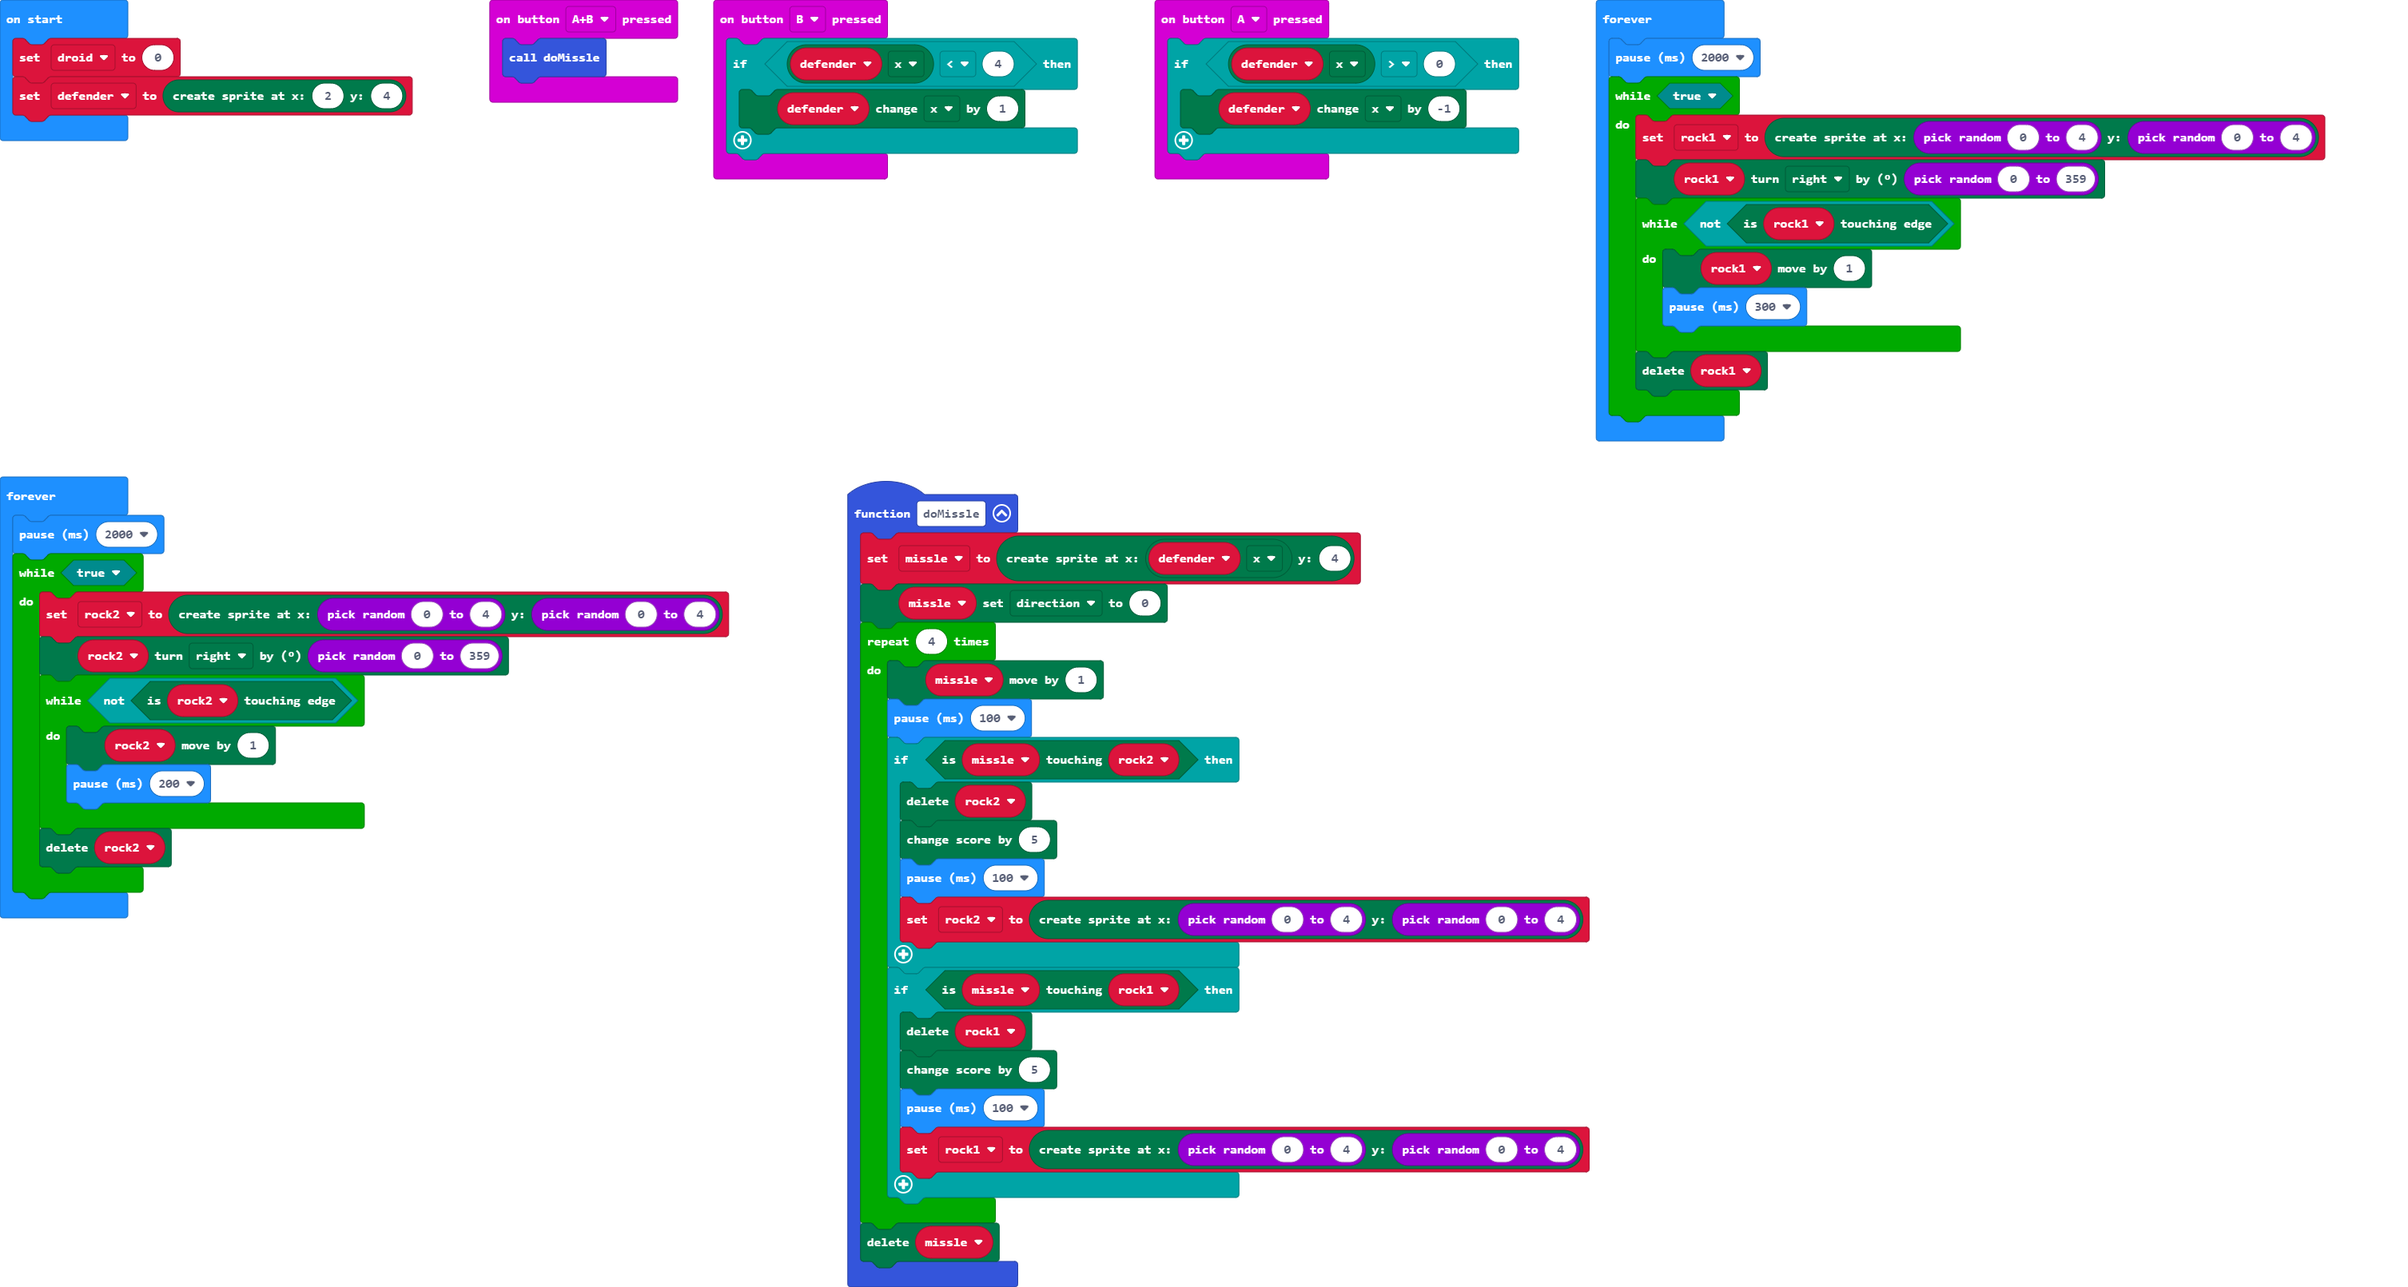
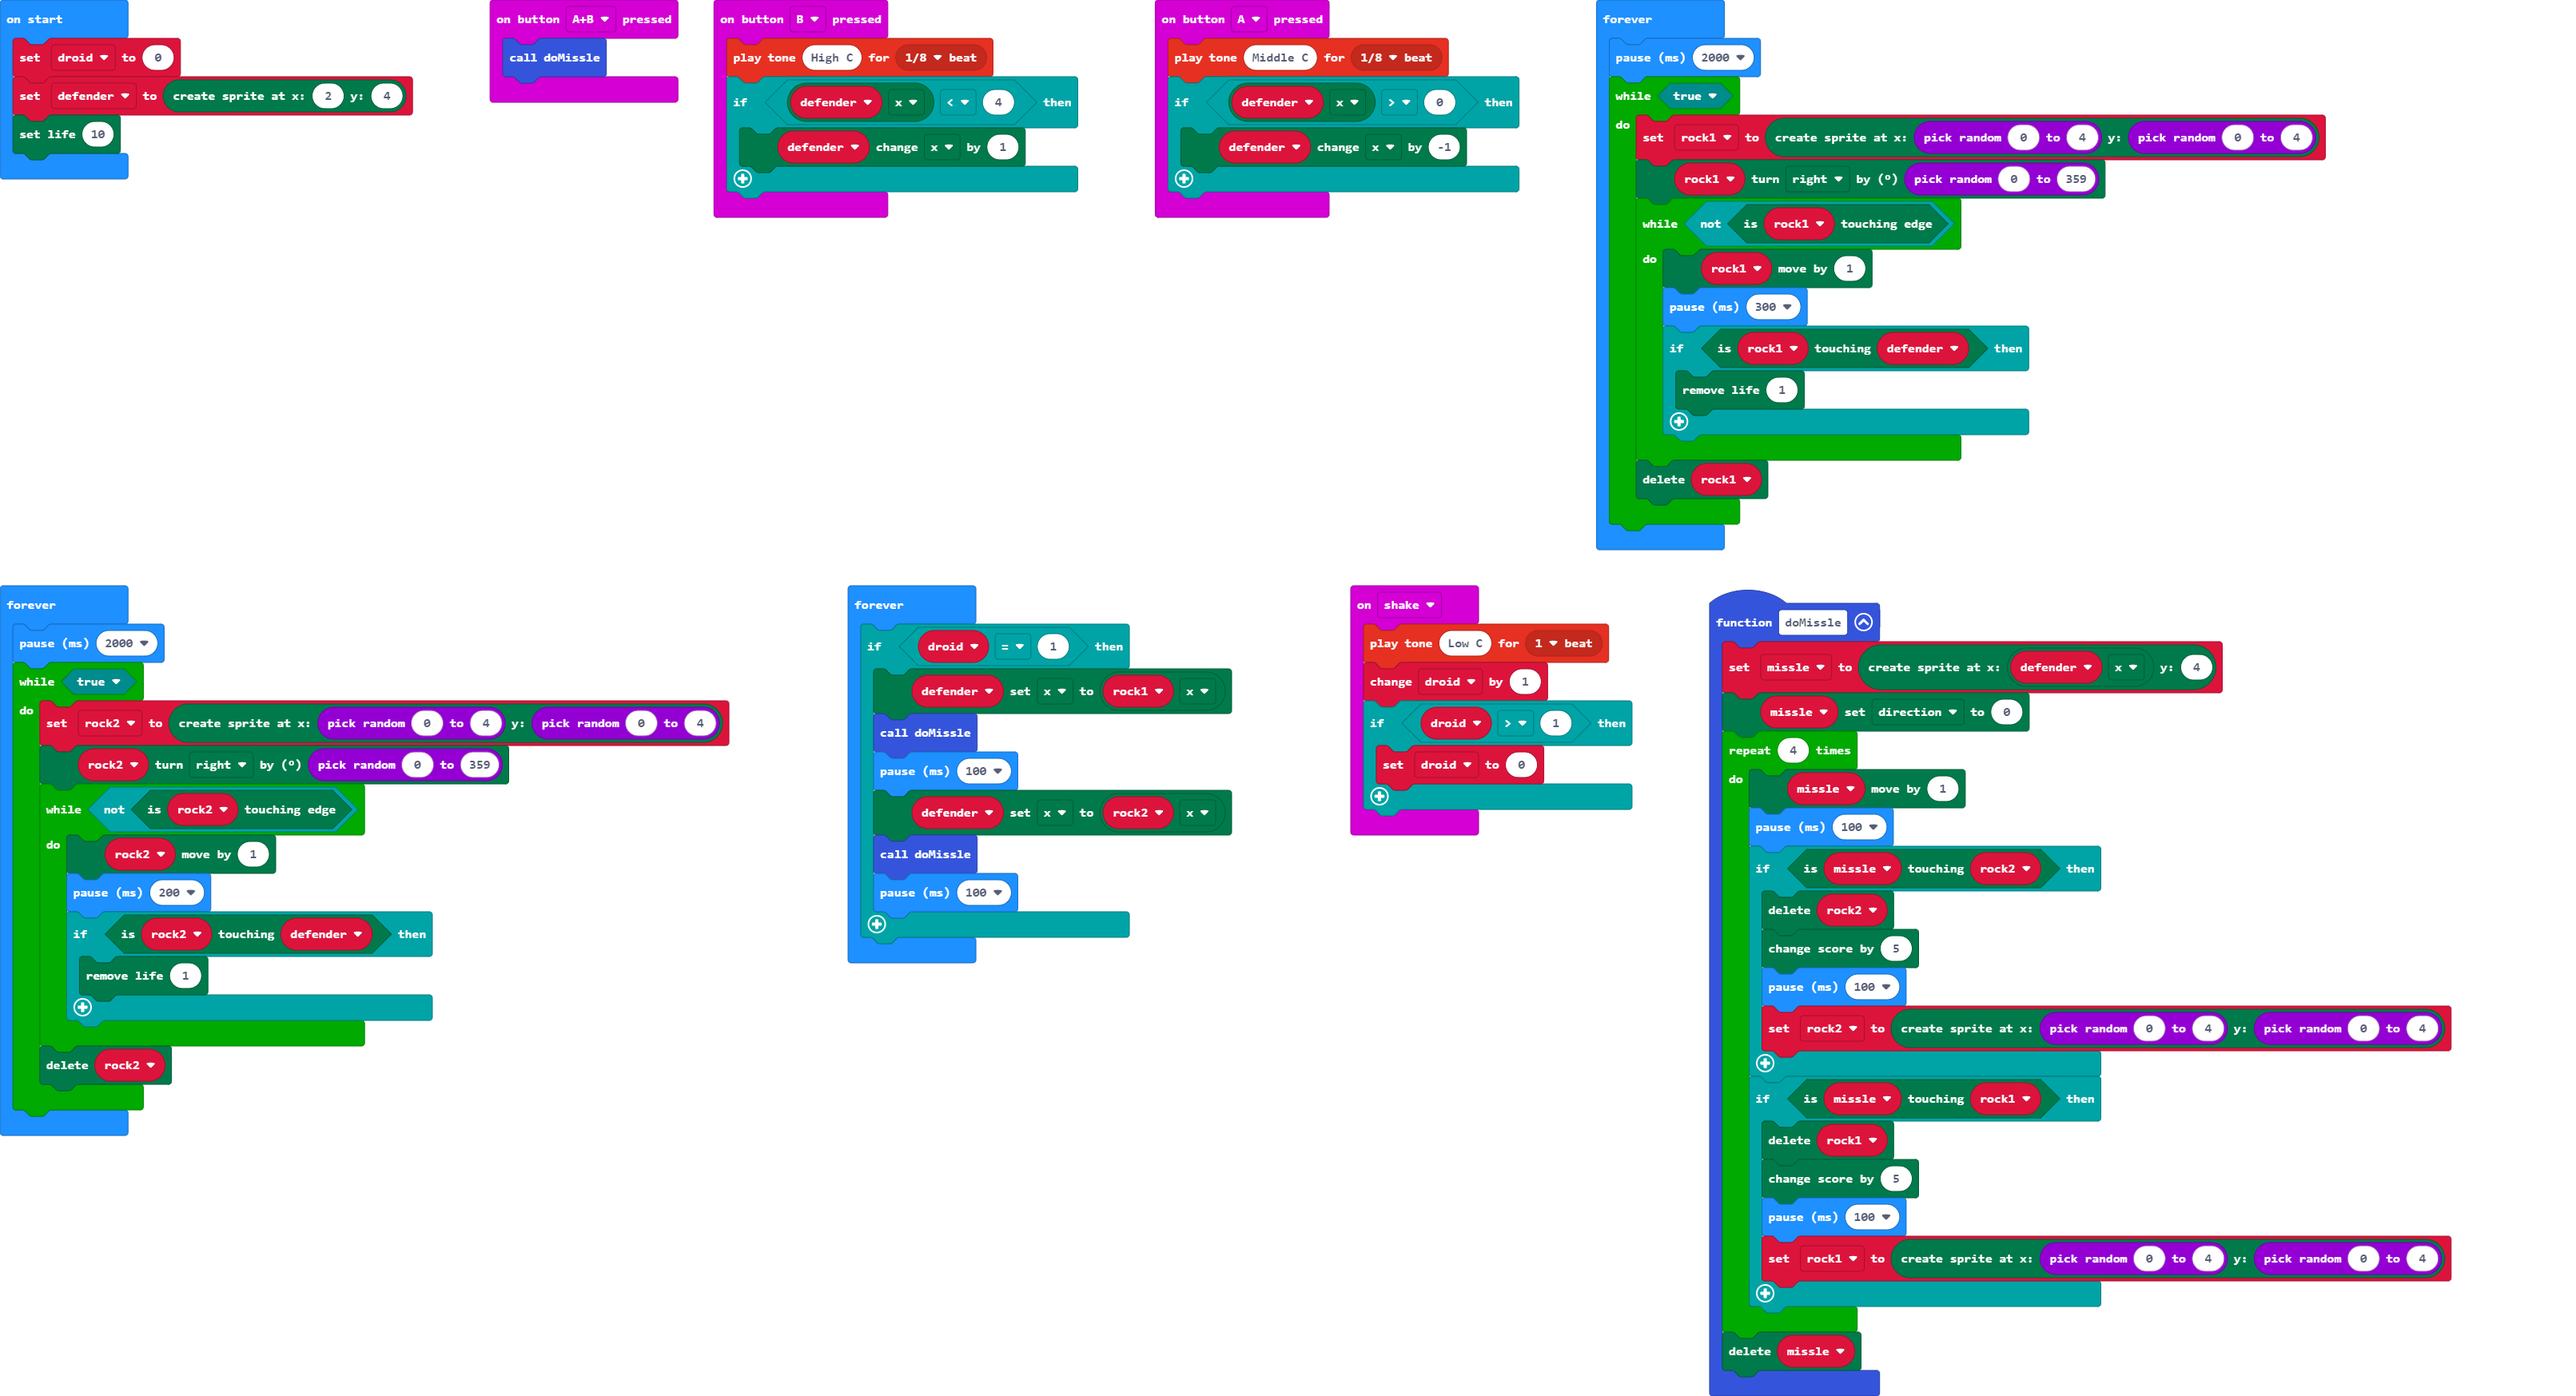
Update main.blocks, main.ts

diff --git a/main.ts b/main.ts
@@ -20,6 +20,7 @@ function doMissle () {
     missle.delete()
 }
 input.onButtonPressed(Button.A, function () {
+    music.playTone(262, music.beat(BeatFraction.Eighth))
     if (defender.get(LedSpriteProperty.X) > 0) {
         defender.change(LedSpriteProperty.X, -1)
     }
@@ -28,8 +29,16 @@ input.onButtonPressed(Button.AB, function () {
     doMissle()
 })
 input.onButtonPressed(Button.B, function () {
+    music.playTone(523, music.beat(BeatFraction.Eighth))
     if (defender.get(LedSpriteProperty.X) < 4) {
         defender.change(LedSpriteProperty.X, 1)
+    }
+})
+input.onGesture(Gesture.Shake, function () {
+    music.playTone(131, music.beat(BeatFraction.Whole))
+    droid += 1
+    if (droid > 1) {
+        droid = 0
     }
 })
 let rock1: game.LedSprite = null
@@ -37,7 +46,9 @@ let rock2: game.LedSprite = null
 let missle: game.LedSprite = null
 let defender: game.LedSprite = null
 let droid = 0
+droid = 0
 defender = game.createSprite(2, 4)
+game.setLife(10)
 basic.forever(function () {
     basic.pause(2000)
     while (true) {
@@ -46,6 +57,9 @@ basic.forever(function () {
         while (!(rock1.isTouchingEdge())) {
             rock1.move(1)
             basic.pause(300)
+            if (rock1.isTouching(defender)) {
+                game.removeLife(1)
+            }
         }
         rock1.delete()
     }
@@ -58,7 +72,20 @@ basic.forever(function () {
         while (!(rock2.isTouchingEdge())) {
             rock2.move(1)
             basic.pause(200)
+            if (rock2.isTouching(defender)) {
+                game.removeLife(1)
+            }
         }
         rock2.delete()
+    }
+})
+basic.forever(function () {
+    if (droid == 1) {
+        defender.set(LedSpriteProperty.X, rock1.get(LedSpriteProperty.X))
+        doMissle()
+        basic.pause(100)
+        defender.set(LedSpriteProperty.X, rock2.get(LedSpriteProperty.X))
+        doMissle()
+        basic.pause(100)
     }
 })
